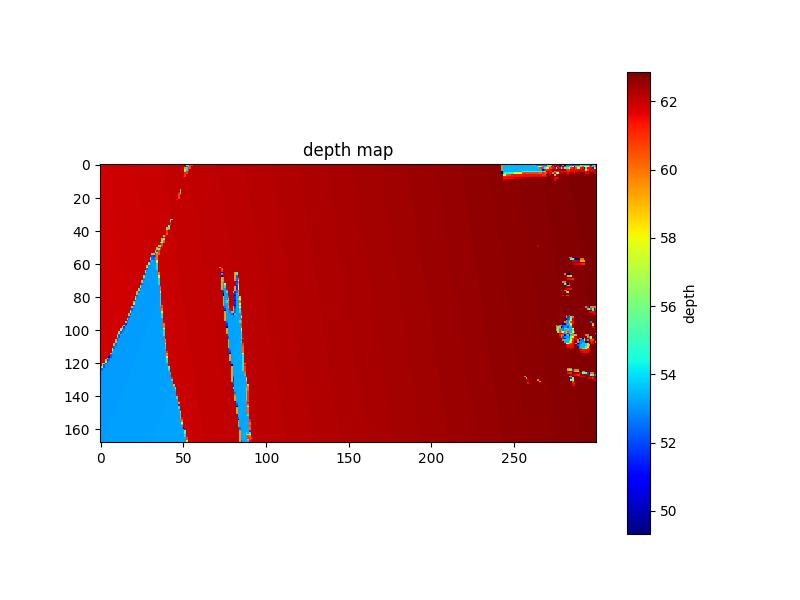
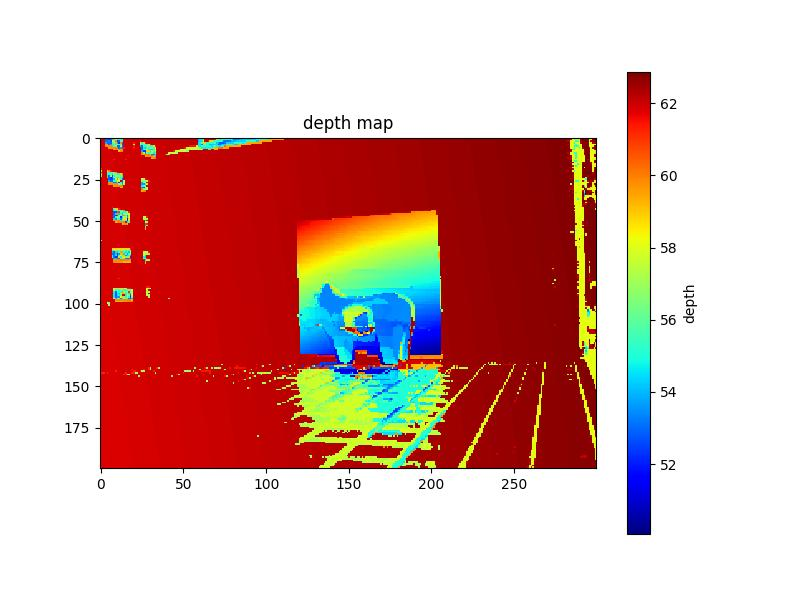
minor updates

diff --git a/main_multi_thread.py b/main_multi_thread.py
@@ -1,7 +1,7 @@
 
 import time
 import threading
-import keyboard
+import keyboard 
 import matplotlib.pyplot as plt
 from autoCamera import capture
 import os
@@ -15,7 +15,7 @@ process_event = threading.Event()
 stop_event = threading.Event()
 
 def capture_images():
-    global graycode_files
+    global graycode_filess
     while not stop_event.is_set():
             print("Capturing")
             capture()

diff --git a/main.py b/main.py
@@ -26,7 +26,7 @@ if __name__ == "__main__":
             graycode_files = [os.path.join(filename, img) for img in os.listdir(filename) if img.endswith(".jpg")]
             time.sleep(0.5)
         if keyboard.is_pressed('s'):
-            print("Goodbye! fuck you dont come again")
+            print("Goodbye!")
             break
 
         elif len(os.listdir(filename)) != 0:

diff --git a/depth_map.py b/depth_map.py
@@ -5,7 +5,7 @@ from decode_gray import  decoding_main
 import matplotlib
 matplotlib.use('Agg')
 import matplotlib.pyplot as plt
-import open3d as o3d
+#import open3d as o3d
 import time
 import os
 

diff --git a/autoCamera.py b/autoCamera.py
@@ -40,6 +40,7 @@ def capture():
     cap.release()
     cv2.destroyAllWindows()
 
+capture()
 
 # MAIN FUNCTION
 # if __name__ == "__main__":
